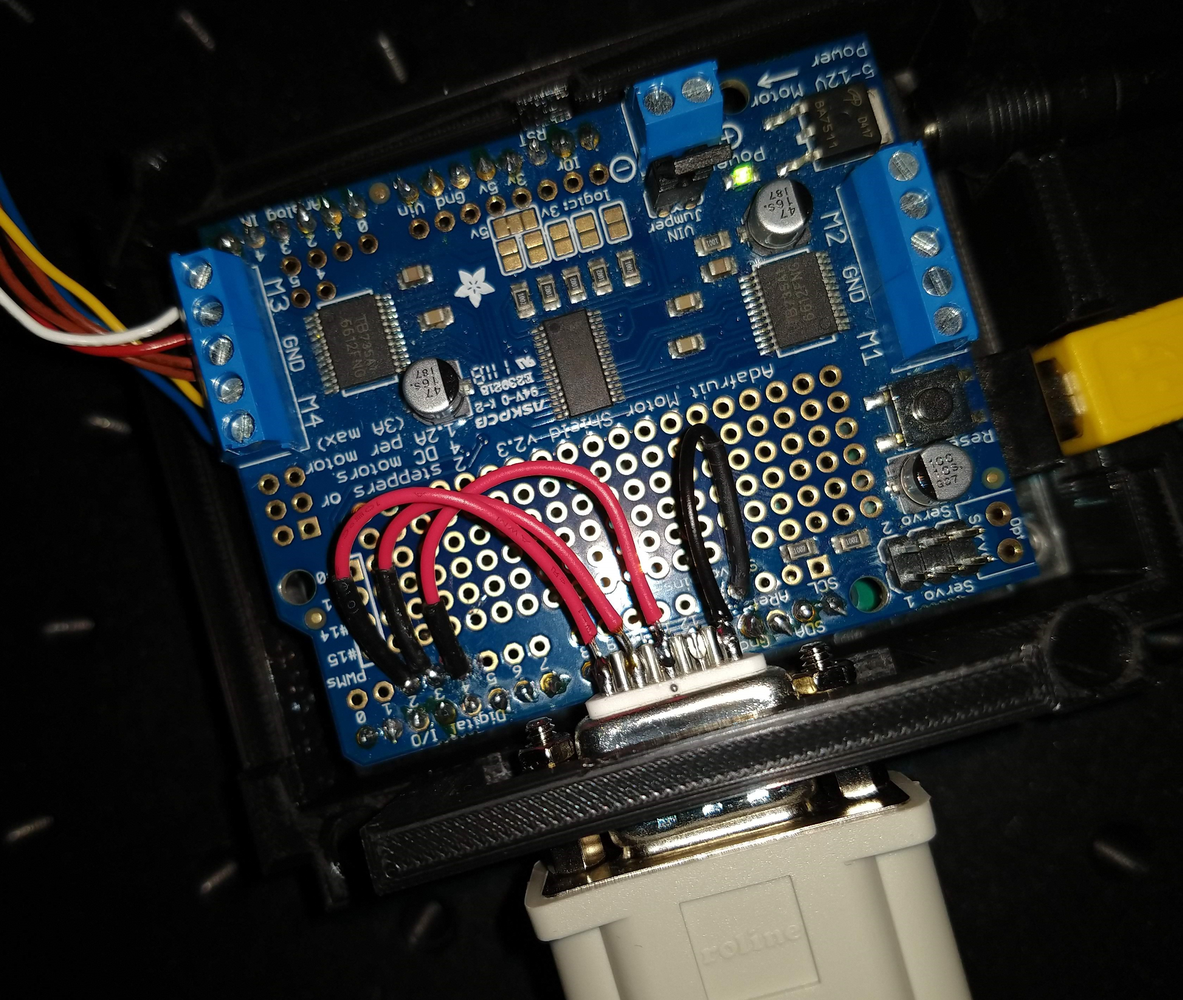
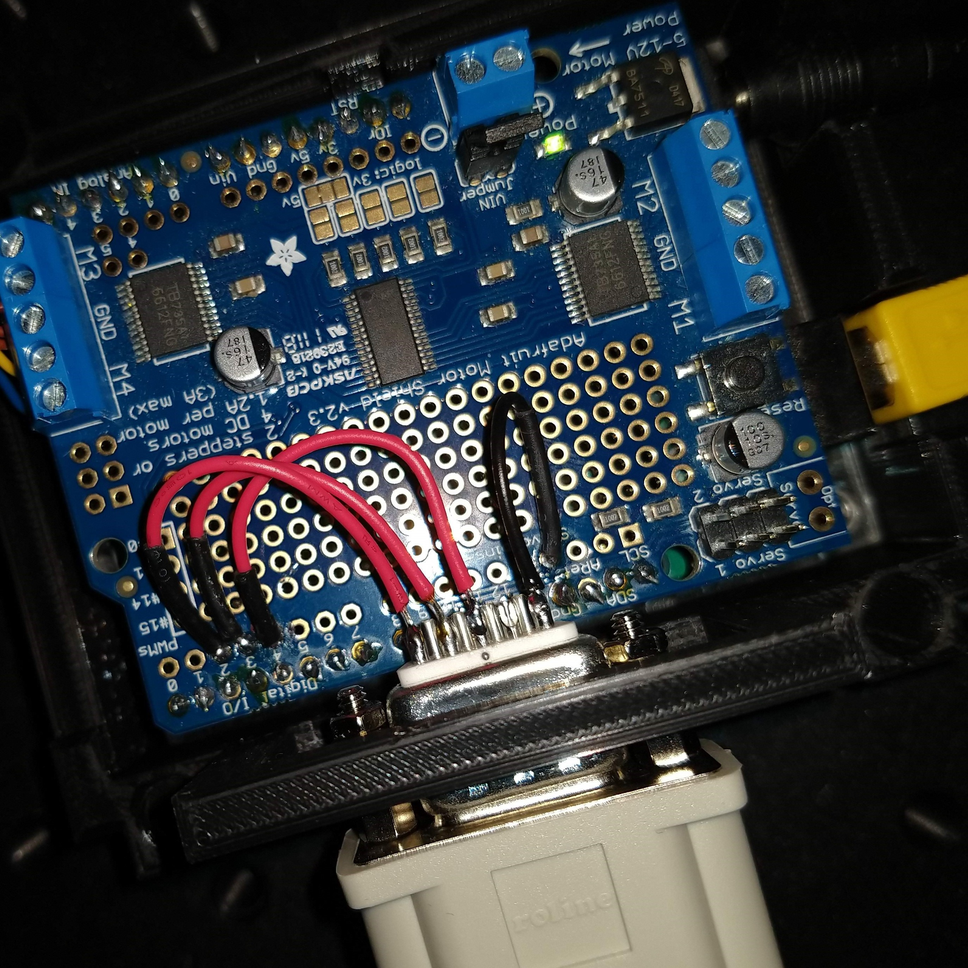
updated build documentation

diff --git a/FocusShifter.html b/FocusShifter.html
@@ -110,6 +110,8 @@
  
     <p> Wire the motor to the Adafruit control board in 6-wire configuration. Ensure to connect an external 12V power supply to the Arduino board to supply sufficient power to the motor.</p>
 
+    <img src="Images/Arduino-MotorConnection.jpg" width="40%">
+
     <p> <a href="#Software">Code</a> is included to control the stepper motor and microscope focus via Arduino. Download the Arduino IDE, and open the Arduino focus-controller.ino sketch. Install the <b>_Adafruit\_Motor\_Shield\_V2\_Library_</b> via the <b>_Sketch\>Include Library\>Manage Libraries_</b> interface. Upload the code to the Arduino board.</p>
 
     <p> Connect to the Arduino board and control the motor using the Arduino (or any other) serial monitor interface. Commands are encroporated to move the motor, and hence the lens, in both directions and to a zero point. There are also commands to adjust movement limits and speed.</p>
